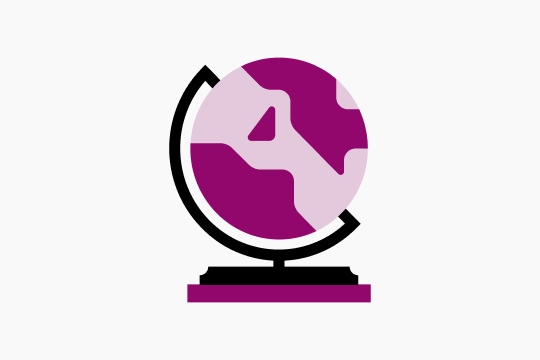
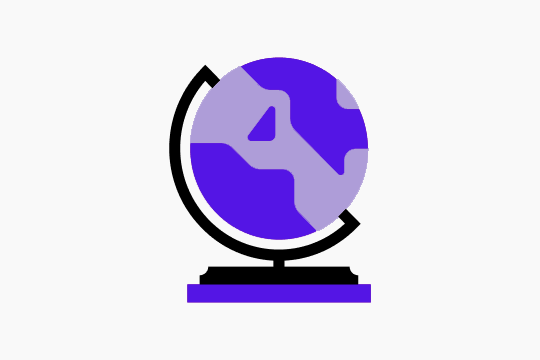
Updated the app color scheme

Changed region(s): [[0.3259, 0.1528, 0.6815, 0.6722], [0.3259, 0.7639, 0.7111, 0.8556]]

diff --git a/app/javascript/src/stylesheets/custom/common/base.scss b/app/javascript/src/stylesheets/custom/common/base.scss
@@ -18,7 +18,7 @@ body {
   background-color: rgba($primary, 0.1) !important;
 }
 .badge-primary-lt:hover{
-  color: #91076c;
+  color: #5415e5;
   background-color: rgba($primary, 0.1) !important;
 }
 .text-wrapup{
@@ -144,7 +144,7 @@ nav {
         // color: $nav-font-color;
         text-decoration: none;
         &:hover {
-          background: #91076c;
+          background: #5415e5;
           // opacity: 0.7;
         }
         &:not(:only-child):after {
@@ -233,7 +233,7 @@ nav {
     border-radius: 1px;
     height: 2px;
     width: 18px;
-    background: #91076c;
+    background: #5415e5;
     position: absolute;
     display: block;
     content: '';
@@ -263,7 +263,7 @@ nav {
   text-decoration: none !important;
 }
 .card-feature a:hover{
-  color: #91076c;
+  color: #5415e5;
   box-shadow: 10px 24px 20px -5px rgba(31, 31, 31, 0.4);
   transition: all 0.4s ease;
 }
@@ -283,7 +283,7 @@ nav {
   padding-bottom: 30px;
 }
 .brand-icon{
-  color: #91076c;
+  color: #5415e5;
   text-transform: capitalize;
 }
 .short-text-cv{
@@ -318,7 +318,7 @@ nav {
   }
 }
 .edit-btn{
-  background-color: #91076c;
+  background-color: #5415e5;
   color: white;
   size: 30px;
 }
@@ -353,7 +353,7 @@ nav {
   color: black;
 }
 .show_message:hover{
-  color: #91076c;
+  color: #5415e5;
   text-decoration: none;
 }
 .notification {
@@ -374,7 +374,7 @@ nav {
 }
 .box-primary {
   border: 1px solid rgba(0, 0, 0, 0.15);
-  border-top: 2px solid #91076c;
+  border-top: 2px solid #5415e5;
   background-color: rgba(236, 236, 236, 0.3);
 }
 .box-header{
@@ -416,7 +416,7 @@ nav {
 }
 .custom-box {
   border: 1px solid rgba(0,0,0,.15);
-  border-top: 3px solid #91076c;
+  border-top: 3px solid #5415e5;
   background-color: hsla(0,0%,92.5%,.3);
 }
 .cv-language{

diff --git a/app/javascript/src/javascripts/homepage_map.js b/app/javascript/src/javascripts/homepage_map.js
@@ -128,7 +128,7 @@ window.initIndexMap = function () {
         'circle-color': '#fff',
         'circle-radius': 4,
         'circle-stroke-width': 5,
-        'circle-stroke-color': '#91076C'
+        'circle-stroke-color': '#5415e5'
       }
     });
 

diff --git a/app/javascript/src/javascripts/search_map.js b/app/javascript/src/javascripts/search_map.js
@@ -78,7 +78,7 @@ window.initSearchMap = function () {
         'circle-color': '#fff',
         'circle-radius': 4,
         'circle-stroke-width': 5,
-        'circle-stroke-color': '#91076C'
+        'circle-stroke-color': '#5415e5'
       }
     });
 

diff --git a/app/javascript/src/admin/styles/custom.scss b/app/javascript/src/admin/styles/custom.scss
@@ -15,10 +15,10 @@
   margin-top: 60px !important;
 }
 .base-color {
-  color: #91076c;
+  color: #5415e5;
 }
 .form-border-t {
-  border-top: 2px solid #91076c;
+  border-top: 2px solid #5415e5;
 }
 #newsletter_table thead tr th {
   padding: 18px;

diff --git a/app/javascript/src/stylesheets/bootstrap/variables.scss b/app/javascript/src/stylesheets/bootstrap/variables.scss
@@ -1,5 +1,5 @@
 // Colors
-$primary: #91076C;
+$primary: #5415e5;
 $theme-colors: (
     "light-1": #E8E8E8,
     "light-2": #808080,
